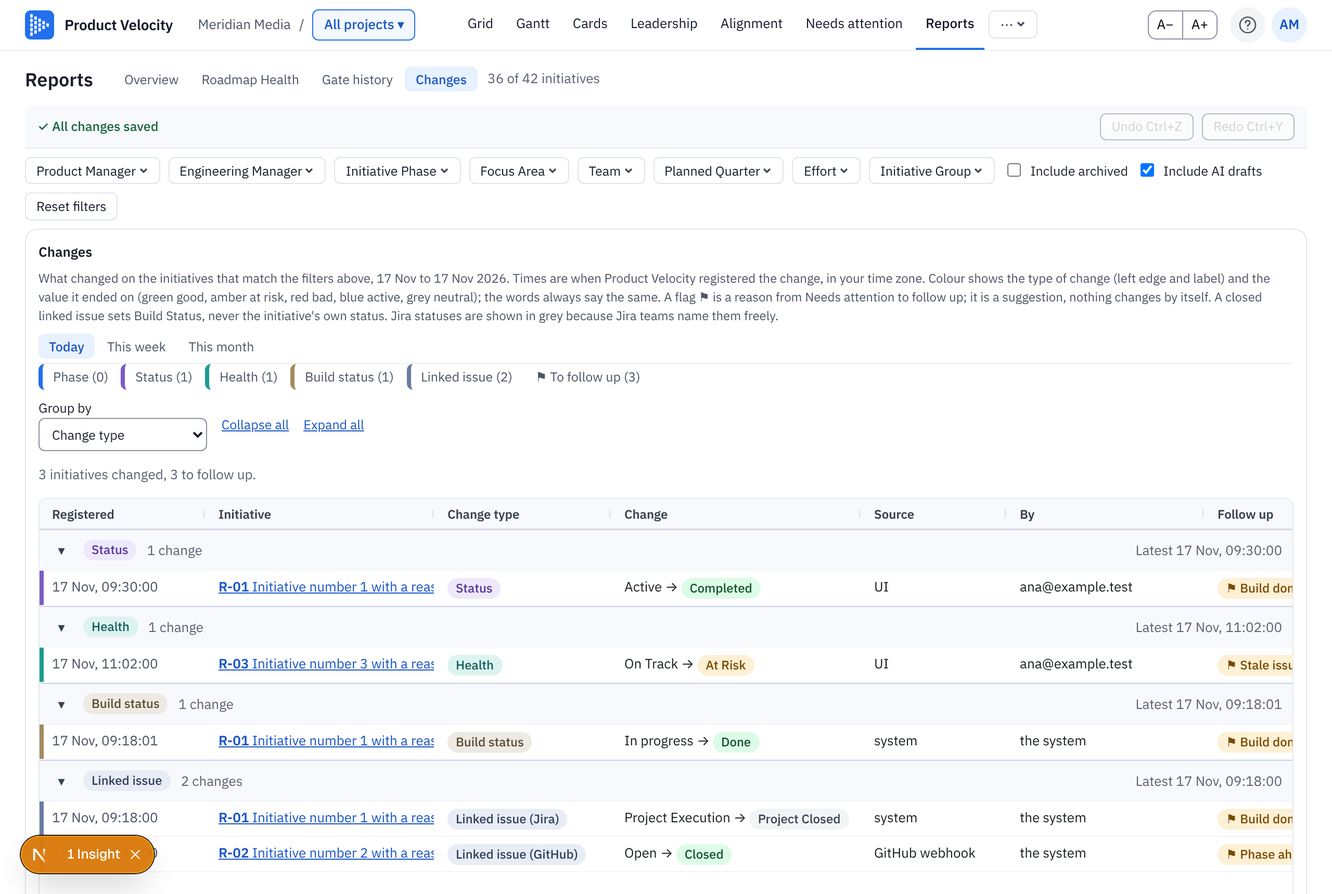
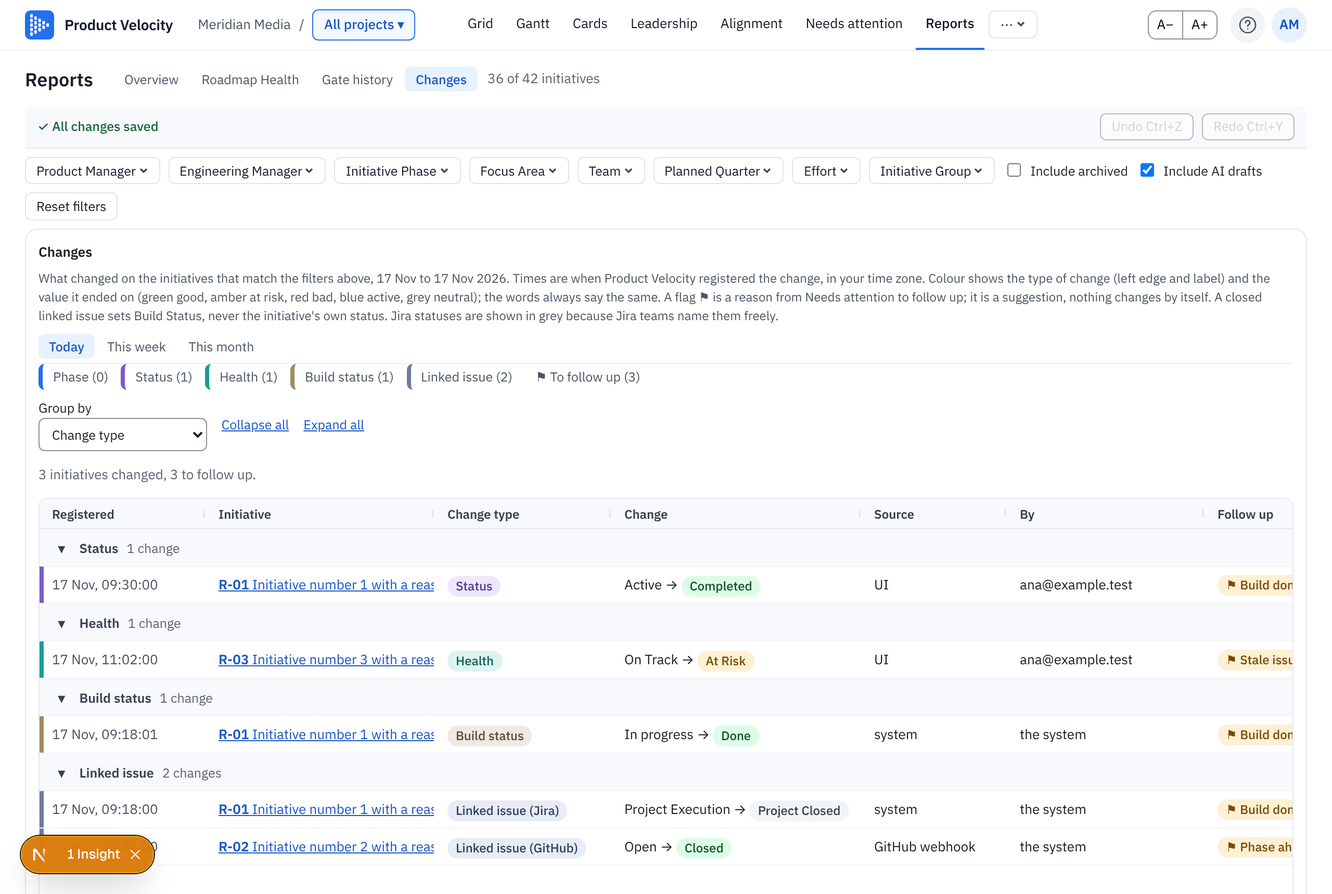
Changes grid built on the Roadmap grid's shared kit (#472)
Move the theme, modules, column defaults and group header row into
grid-kit and use them in both grids; the Changes group headers are the
Roadmap's GroupRow with a unit and badges.

Claude-Session: https://claude.ai/code/session_01TMdyHsoRZT8bQ47JBSqkYg

diff --git a/apps/web/src/features/reports/changes-report.tsx b/apps/web/src/features/reports/changes-report.tsx
@@ -2,46 +2,21 @@
 
 import { useCallback, useEffect, useMemo, useState } from "react";
 import { AgGridReact, type CustomCellRendererProps } from "ag-grid-react";
-import { CellStyleModule, ClientSideRowModelModule, ModuleRegistry, RowStyleModule, TooltipModule, themeQuartz, type ColDef } from "ag-grid-community";
+import type { ColDef } from "ag-grid-community";
 import {
   ATTENTION_KINDS, CHANGE_GROUP_BYS, CHANGE_PERIODS, CHANGE_TYPES, attentionList, changeCounts, changeGridRows, changePeriod, changeReport, changeTypeLabel, isChangeHeader,
-  type ChangeFlag, type ChangeGridRow, type ChangeGroupBy, type ChangeHeaderData, type ChangePeriod, type ChangeRowData, type ChangeType, type FeedRow, type ItemInfo,
+  type ChangeFlag, type ChangeGridRow, type ChangeGroupBy, type ChangePeriod, type ChangeRowData, type ChangeType, type FeedRow, type ItemInfo,
 } from "@pv/domain";
+import { DEFAULT_COL_DEF, GRID_THEME, GroupRowRenderer } from "../portfolio/grid-kit";
 import type { ReportEnv } from "./report-env";
-
-ModuleRegistry.registerModules([ClientSideRowModelModule, CellStyleModule, RowStyleModule, TooltipModule]);
-// Same look as the main grid. Row grouping is Enterprise only, so the group rows are our own (full-width rows), like in the Roadmap grid.
-const theme = themeQuartz.withParams({
-  fontFamily: "IBM Plex Sans, system-ui, sans-serif", fontSize: 13, headerFontSize: 12, headerFontWeight: 600, headerTextColor: "#374151", columnBorder: false, headerColumnBorder: false,
-  rowBorder: { style: "solid", width: 1, color: "#F3F4F7" }, rowHeight: 34, headerHeight: 28, accentColor: "#2270ed", borderColor: "#E6E9EF", headerBackgroundColor: "#F8F9FC", wrapperBorderRadius: 8, spacing: 6,
-});
 
 const plural = (n: number, one: string, many: string) => `${n.toLocaleString("en-GB")} ${n === 1 ? one : many}`;
 const when = (iso: string) => new Date(iso).toLocaleString("en-GB", { day: "numeric", month: "short", hour: "2-digit", minute: "2-digit", second: "2-digit" });
-type Ctx = { toggle: (id: string) => void; open: (itemId: string) => void; who: (id: string | null) => string };
+type Ctx = { toggleGroup: (key: string) => void; open: (itemId: string) => void; who: (id: string | null) => string };
 
 const FlagPills = ({ flags }: { flags: readonly ChangeFlag[] }) => (
   <>{flags.map((f) => <span key={f.kind} className="pill tone-risk chg-flag" title={f.text}>⚑ {f.label}</span>)}</>
 );
-
-/** A group row: a fold button, the label, the count, whether the initiative itself moved, and the flags to follow up. */
-function GroupHeader(p: CustomCellRendererProps<ChangeHeaderData>) {
-  const h = p.data!, ctx = p.context as Ctx;
-  return (
-    <div className="chg-head" role="row" data-by={h.by}>
-      <button type="button" className="chg-fold" aria-expanded={!h.collapsed} aria-label={`${h.collapsed ? "Expand" : "Collapse"} ${h.label}`} onClick={() => ctx.toggle(h.id)}>{h.collapsed ? "▸" : "▾"}</button>
-      {h.type ? <span className={`pill chg-type chg-type-${h.type}`}>{h.label}</span>
-        : h.itemId ? <button type="button" className="link-button chg-title" onClick={() => ctx.open(h.itemId!)}>{h.label}</button> : <strong>{h.label}</strong>}
-      <span className="muted">{plural(h.count, "change", "changes")}</span>
-      {h.itemId && (h.moved.length > 0
-        ? <span className="pill tone-info" title="The initiative itself changed">Initiative: {h.moved.map(changeTypeLabel).join(", ")}</span>
-        : <span className="pill tone-neutral" title="Only the linked issues changed">Initiative unchanged</span>)}
-      {h.trackerChanges > 0 && <span className="pill tone-neutral">{plural(h.trackerChanges, "linked-issue change", "linked-issue changes")}</span>}
-      <FlagPills flags={h.flags} />
-      <span className="muted chg-latest">Latest <time dateTime={h.latest}>{when(h.latest)}</time></span>
-    </div>
-  );
-}
 
 const TypeCell = (p: CustomCellRendererProps<ChangeRowData>) => <span className={`pill chg-type chg-type-${p.data!.type}`}>{changeTypeLabel(p.data!.type)}{p.data!.tracker ? ` (${p.data!.tracker})` : ""}</span>;
 const ChangeCell = (p: CustomCellRendererProps<ChangeRowData>) => {
@@ -59,10 +34,8 @@ const FlagCell = (p: CustomCellRendererProps<ChangeRowData>) => {
   return <><FlagPills flags={f.slice(0, 1)} />{f.length > 1 && <span className="pill tone-neutral" title={f.map((x) => `${x.label}: ${x.text}`).join("\n")}>+{f.length - 1} more</span>}</>;
 };
 
-const FullWidth = (p: CustomCellRendererProps<ChangeHeaderData>) => <GroupHeader {...p} />;
 const isFullWidthRow = (p: { rowNode: { data?: unknown } }) => isChangeHeader(p.rowNode.data);
 const getRowId = (p: { data: ChangeGridRow }) => p.data.id;
-const getRowHeight = (p: { data?: ChangeGridRow }) => (p.data && isChangeHeader(p.data) ? 40 : 34);
 const getRowClass = (p: { data?: ChangeGridRow }) => (p.data && !isChangeHeader(p.data) ? `chg-row chg-row-${p.data.type}` : undefined);
 
 /**
@@ -104,16 +77,16 @@ export function ChangesReport({ env, load, onOpen }: { env: ReportEnv; load?: (f
   const toggleType = (t: ChangeType) => setTypes((s) => (s.includes(t) ? s.filter((x) => x !== t) : [...s, t]));
   const toggle = useCallback((id: string) => setCollapsed((s) => { const n = new Set(s); if (!n.delete(id)) n.add(id); return n; }), []);
   const who = useCallback((id: string | null) => (id ? lookups.members.find((m) => m.user_id === id)?.email ?? "someone" : "the system"), [lookups.members]);
-  const context = useMemo<Ctx>(() => ({ toggle, open: onOpen, who }), [toggle, onOpen, who]);
+  const context = useMemo<Ctx>(() => ({ toggleGroup: toggle, open: onOpen, who }), [toggle, onOpen, who]);
 
   const columnDefs = useMemo<ColDef<ChangeRowData>[]>(() => [
     { colId: "at", headerName: "Registered", width: 160, valueGetter: (p) => p.data?.at, valueFormatter: (p) => (p.value ? when(String(p.value)) : ""), cellClass: "chg-time" },
-    { colId: "initiative", headerName: "Initiative", flex: 2, minWidth: 220, cellRenderer: InitiativeCell, hide: by === "initiative" }, // the group header says it
+    { colId: "initiative", headerName: "Initiative", flex: 2, minWidth: 220, cellRenderer: InitiativeCell },
     { colId: "type", headerName: "Change type", width: 170, cellRenderer: TypeCell },
     { colId: "change", headerName: "Change", flex: 2, minWidth: 240, cellRenderer: ChangeCell },
     { colId: "source", headerName: "Source", width: 140, valueGetter: (p) => p.data?.via },
     { colId: "by", headerName: "By", width: 190, valueGetter: (p) => (p.data ? who(p.data.actorId) : ""), tooltipValueGetter: (p) => (p.data ? who(p.data.actorId) : "") },
-    { colId: "flags", headerName: "Follow up", flex: 2, minWidth: 260, cellRenderer: FlagCell, cellClass: "chg-flags", hide: by === "initiative" }, // the group header says it
+    { colId: "flags", headerName: "Follow up", flex: 2, minWidth: 260, cellRenderer: FlagCell, cellClass: "chg-flags", hide: by === "initiative" }, // the group header of an initiative already shows its flags
   ], [who, by]);
 
   const { from, to } = changePeriod(period, new Date());
@@ -152,13 +125,14 @@ export function ChangesReport({ env, load, onOpen }: { env: ReportEnv; load?: (f
         : (
           <>
             <p className="muted" role="status">{plural(groups.length, "initiative", "initiatives")} changed{flaggedGroups > 0 ? `, ${flaggedGroups.toLocaleString("en-GB")} to follow up` : ""}{feed.length >= 5000 ? " (showing the latest 5,000 changes)" : ""}.</p>
-            <div className="chg-grid" data-testid="changes-grid">
+            <div className="grid-wrap chg-grid" data-testid="changes-grid">
               <AgGridReact<ChangeGridRow>
-                theme={theme} rowData={gridRows} columnDefs={columnDefs as ColDef<ChangeGridRow>[]} getRowId={getRowId} context={context}
-                isFullWidthRow={isFullWidthRow} fullWidthCellRenderer={FullWidth as never} getRowHeight={getRowHeight} getRowClass={getRowClass}
-                defaultColDef={{ sortable: false, resizable: true, suppressHeaderMenuButton: true }} tooltipShowDelay={500} suppressCellFocus={false}
+                theme={GRID_THEME} rowData={gridRows} columnDefs={columnDefs as ColDef<ChangeGridRow>[]} getRowId={getRowId} context={context}
+                isFullWidthRow={isFullWidthRow} fullWidthCellRenderer={GroupRowRenderer as never} getRowClass={getRowClass}
+                defaultColDef={{ ...DEFAULT_COL_DEF, suppressHeaderMenuButton: true }} tooltipShowDelay={500}
               />
             </div>
+            <p className="grid-foot">{gridRows.filter((r) => !isChangeHeader(r)).length.toLocaleString("en-GB")} changes · {by === "none" ? "Not grouped, newest first" : `Grouped by ${CHANGE_GROUP_BYS.find((g) => g.id === by)!.label.toLowerCase()}, newest first inside each group`} · The time is when Product Velocity registered the change</p>
           </>
         )}
     </section>

diff --git a/packages/domain/src/change-report.ts b/packages/domain/src/change-report.ts
@@ -1,3 +1,5 @@
+import type { GroupBadge, GroupRow } from "./views";
+
 /**
  * Changes report (issue #472): what changed on which initiative in a period, grouped by initiative, with the time Product Velocity registered it,
  * the source and the actor, and whether the initiative itself moved (phase, status, health) next to the status changes of its linked issues.
@@ -119,12 +121,10 @@ export type ChangeRowData = {
   kind: "change"; id: string; entryId: number; itemId: string; code: string; name: string; at: string; type: ChangeType;
   from: string | null; to: string | null; tone: ChangeTone; via: string; actorId: string | null; tracker: "GitHub" | "Jira" | null; flags: ChangeFlag[];
 };
-export type ChangeHeaderData = {
-  kind: "group"; id: string; label: string; count: number; collapsed: boolean; latest: string; by: ChangeGroupBy;
-  itemId: string | null; type: ChangeType | null; moved: ChangeType[]; trackerChanges: number; flags: ChangeFlag[];
-};
+/** A group header is the main grid's own `GroupRow` (one renderer, one look), with the unit "changes" and badges. */
+export type ChangeHeaderData = GroupRow;
 export type ChangeGridRow = ChangeRowData | ChangeHeaderData;
-export const isChangeHeader = (r: unknown): r is ChangeHeaderData => typeof r === "object" && r !== null && (r as { kind?: string }).kind === "group";
+export const isChangeHeader = (r: unknown): r is ChangeHeaderData => typeof r === "object" && r !== null && (r as { __group?: boolean }).__group === true;
 
 const dayKey = (iso: string) => { const d = new Date(iso); return `${d.getFullYear()}-${String(d.getMonth() + 1).padStart(2, "0")}-${String(d.getDate()).padStart(2, "0")}`; };
 const dayLabel = (iso: string) => new Date(iso).toLocaleDateString("en-GB", { weekday: "short", day: "numeric", month: "short", year: "numeric" });
@@ -145,15 +145,21 @@ export function changeGridRows(
   const newest = (a: ChangeRowData, b: ChangeRowData) => (a.at < b.at ? 1 : a.at > b.at ? -1 : b.entryId - a.entryId);
   if (by === "none") return rows.sort(newest);
 
-  const buckets = new Map<string, { label: string; rows: ChangeRowData[]; group?: ChangeGroup; type?: ChangeType }>();
-  for (const g of shown) buckets.set(`i:${g.itemId}`, { label: `${g.code} ${g.name}`, rows: [], group: g });
+  const header = (key: string, label: string, count: number, badges: GroupBadge[]): GroupRow =>
+    ({ __group: true, id: `group:${key}`, key, label, count, collapsed: collapsed.has(key), level: 0, healthSummary: "", unit: count === 1 ? "change" : "changes", badges });
   const out: ChangeGridRow[] = [];
   if (by === "initiative") {
-    for (const r of rows) buckets.get(`i:${r.itemId}`)!.rows.push(r);
-    for (const b of buckets.values()) { // `shown` is already newest first
-      const g = b.group!, id = `g:i:${g.itemId}`;
-      out.push({ kind: "group", id, label: b.label, count: b.rows.length, collapsed: collapsed.has(id), latest: g.latest, by, itemId: g.itemId, type: null, moved: g.moved, trackerChanges: g.trackerChanges, flags: [...(flags.get(g.itemId) ?? [])] });
-      if (!collapsed.has(id)) out.push(...b.rows.sort(newest));
+    const byItem = new Map<string, ChangeRowData[]>();
+    for (const r of rows) byItem.set(r.itemId, [...(byItem.get(r.itemId) ?? []), r]);
+    for (const g of shown) { // already newest first
+      const list = (byItem.get(g.itemId) ?? []).sort(newest), key = `initiative:${g.itemId}`;
+      const badges: GroupBadge[] = [
+        g.moved.length > 0 ? { text: `Initiative: ${g.moved.map(changeTypeLabel).join(", ")}`, tone: "info", title: "The initiative itself changed" } : { text: "Initiative unchanged", tone: "neutral", title: "Only the linked issues changed" },
+        ...(g.trackerChanges > 0 ? [{ text: `${g.trackerChanges} linked-issue ${g.trackerChanges === 1 ? "change" : "changes"}`, tone: "neutral" as const }] : []),
+        ...(flags.get(g.itemId) ?? []).map((f): GroupBadge => ({ text: `⚑ ${f.label}`, tone: "risk", title: f.text })),
+      ];
+      out.push(header(key, `${g.code} ${g.name}`, list.length, badges));
+      if (!collapsed.has(key)) out.push(...list);
     }
     return out;
   }
@@ -162,9 +168,9 @@ export function changeGridRows(
   for (const r of rows.sort(newest)) groupsOf.set(keyOf(r), [...(groupsOf.get(keyOf(r)) ?? []), r]);
   const keys = [...groupsOf.keys()].sort(by === "type" ? (a, b) => CHANGE_TYPES.findIndex((x) => x.id === a) - CHANGE_TYPES.findIndex((x) => x.id === b) : (a, b) => (a < b ? 1 : -1));
   for (const k of keys) {
-    const list = groupsOf.get(k)!, id = `g:${by}:${k}`;
-    out.push({ kind: "group", id, label: by === "type" ? changeTypeLabel(k as ChangeType) : dayLabel(list[0]!.at), count: list.length, collapsed: collapsed.has(id), latest: list[0]!.at, by, itemId: null, type: by === "type" ? (k as ChangeType) : null, moved: [], trackerChanges: 0, flags: [] });
-    if (!collapsed.has(id)) out.push(...list);
+    const list = groupsOf.get(k)!, key = `${by}:${k}`;
+    out.push(header(key, by === "type" ? changeTypeLabel(k as ChangeType) : dayLabel(list[0]!.at), list.length, []));
+    if (!collapsed.has(key)) out.push(...list);
   }
   return out;
 }

diff --git a/apps/web/src/features/portfolio/portfolio-grid.tsx b/apps/web/src/features/portfolio/portfolio-grid.tsx
@@ -4,7 +4,7 @@ import { useCallback, useEffect, useMemo, useRef, useState, type ReactNode } fro
 import { useRouter, useSearchParams } from "next/navigation";
 import {
   ClientSideRowModelApiModule, ClientSideRowModelModule, CellApiModule, CellStyleModule, ColumnApiModule, CustomEditorModule,
-  EventApiModule, ModuleRegistry, RowApiModule, RowSelectionModule, ScrollApiModule, TextEditorModule, themeQuartz, type CellClickedEvent, type CellDoubleClickedEvent, type CellFocusedEvent, type CellKeyDownEvent, type ColumnMovedEvent, type GridApi,
+  EventApiModule, ModuleRegistry, RowApiModule, RowSelectionModule, ScrollApiModule, TextEditorModule, type CellClickedEvent, type CellDoubleClickedEvent, type CellFocusedEvent, type CellKeyDownEvent, type ColumnMovedEvent, type GridApi,
 } from "ag-grid-community";
 import { AgGridReact, type CustomCellRendererProps } from "ag-grid-react";
 import {
@@ -39,6 +39,7 @@ import { ImportDialog } from "./import-dialog";
 import { QuickAddBar } from "./quick-add-bar";
 import { OverflowBar, type OverflowItem } from "@/components/overflow-bar";
 import type { PortfolioController } from "./controller";
+import { DEFAULT_COL_DEF, GRID_THEME, GroupRowRenderer, isGroup } from "./grid-kit";
 import { StatusAlerts, StatusInline, useStatus } from "./status-strip";
 import type { GridItem, Lookups } from "./types";
 
@@ -47,24 +48,6 @@ ModuleRegistry.registerModules([
   ColumnApiModule, CellApiModule, RowApiModule, EventApiModule, ScrollApiModule, RowSelectionModule,
 ]);
 
-const theme = themeQuartz.withParams({
-  fontFamily: "IBM Plex Sans, system-ui, sans-serif",
-  fontSize: 13,
-  headerFontSize: 12,
-  headerFontWeight: 600,
-  headerTextColor: "#374151",
-  columnBorder: false,
-  headerColumnBorder: false,
-  rowBorder: { style: "solid", width: 1, color: "#F3F4F7" },
-  selectedRowBackgroundColor: "#f3f8fe",
-  rowHeight: 36,
-  headerHeight: 28,
-  accentColor: "#2270ed",
-  borderColor: "#E6E9EF",
-  headerBackgroundColor: "#F8F9FC",
-  wrapperBorderRadius: 8,
-  spacing: 6,
-});
 
 type GridProps = {
   controller: PortfolioController;
@@ -83,24 +66,6 @@ type GridProps = {
   gates?: GateSource;
 };
 
-const isGroup = (r: unknown): r is GroupRow => !!r && typeof r === "object" && (r as { __group?: boolean }).__group === true;
-
-/** Full-width header row of a group: a toggle, the group's name and how many items it holds. A "Then by" header sits indented inside its group. */
-function GroupRowRenderer(p: CustomCellRendererProps<GroupRow>) {
-  const g = p.data;
-  if (!g) return null;
-  const toggle = (p.context as { toggleGroup: (key: string) => void }).toggleGroup;
-  return (
-    <div className="group-row" data-level={g.level ?? 0}>
-      <button type="button" className="group-toggle" aria-expanded={!g.collapsed} aria-label={`${g.collapsed ? "Expand" : "Collapse"} group ${g.label}`} onClick={() => toggle(g.key)}>
-        {g.collapsed ? "▸" : "▾"}
-      </button>
-      <span>{g.label}</span>
-      <span className="group-count">{g.count} {g.count === 1 ? "item" : "items"}</span>
-      {g.healthSummary && <span className="group-health">{g.healthSummary}</span>}
-    </div>
-  );
-}
 
 /**
  * A tracker issue under its initiative (Show issues), lined up with the grid's own columns so it reads as a child of the initiative above:
@@ -144,7 +109,6 @@ const getRowId = (p: { data: { id: string } }) => p.data.id;
 /** Group headers and tracker issue rows are not initiatives: they span the grid, cannot be selected and are skipped by the keyboard shortcuts. */
 const isExtraRow = (r: unknown) => isGroup(r) || isIssueRow(r);
 const isFullWidthRow = (p: { rowNode: { data?: unknown } }) => isExtraRow(p.rowNode.data);
-const DEFAULT_COL_DEF = { sortable: false, resizable: true, cellDataType: false } as const;
 const ROW_SELECTION = { mode: "multiRow", checkboxes: true, headerCheckbox: true, enableClickSelection: false, isRowSelectable: (n: { data?: unknown }) => !isExtraRow(n.data) } as const;
 const SELECTION_COLUMN = { pinned: "left", width: 46, suppressHeaderMenuButton: true } as const;
 
@@ -791,7 +755,7 @@ export function PortfolioGrid({ controller, lookups, initialBase = PRIORITISATIO
       <div className={peekId ? "grid-split grid-split-open" : "grid-split"}>
       <div ref={wrapRef} className="grid-wrap" data-testid="grid" data-issues={showIssues ? "on" : undefined} style={gridHeight ? { height: gridHeight } : undefined}>
         <AgGridReact<GridItem>
-          theme={theme}
+          theme={GRID_THEME}
           rowData={displayRows as unknown as GridItem[]}
           columnDefs={columnDefs}
           getRowId={getRowId}

diff --git a/packages/domain/src/change-report.test.ts b/packages/domain/src/change-report.test.ts
@@ -78,7 +78,7 @@ describe("changePeriod", () => {
   });
 });
 
-import { changeGridRows, changeTone, isChangeHeader, type ChangeFlag } from "./change-report";
+import { changeGridRows, changeTone, isChangeHeader, type ChangeFlag, type ChangeRowData } from "./change-report";
 
 describe("changeTone", () => {
   it("colours the value a change ended on, and never guesses a Jira status", () => {
@@ -106,16 +106,17 @@ describe("changeGridRows", () => {
 
   it("puts a header before each initiative with the count, the flags and whether it moved", () => {
     const rows = changeGridRows(groups, "initiative", new Set(), flags);
-    expect(rows.map((r) => r.kind)).toEqual(["group", "change", "change", "group", "change"]);
+    expect(rows.map((r) => (isChangeHeader(r) ? "group" : r.kind))).toEqual(["group", "change", "change", "group", "change"]);
     const h = rows[0]!;
-    expect(isChangeHeader(h) && h).toMatchObject({ itemId: "a", count: 2, moved: ["initiative-status"], trackerChanges: 1, flags: [flag] });
+    expect(isChangeHeader(h) && h).toMatchObject({ __group: true, key: "initiative:a", label: "R-27 Bidder adapter", count: 2, unit: "changes", level: 0 });
+    expect((h as { badges: { text: string; tone: string }[] }).badges).toEqual([expect.objectContaining({ text: "Initiative: Status", tone: "info" }), expect.objectContaining({ text: "1 linked-issue change" }), expect.objectContaining({ text: "⚑ Build done", tone: "risk", title: flag.text })]);
     expect(rows[1]).toMatchObject({ code: "R-27", tone: "good", flags: [flag] });
   });
 
   it("a collapsed group shows only its header", () => {
-    const rows = changeGridRows(groups, "initiative", new Set(["g:i:a"]), flags);
-    expect(rows.map((r) => r.kind)).toEqual(["group", "group", "change"]);
-    expect((rows[0] as { collapsed: boolean }).collapsed).toBe(true);
+    const rows = changeGridRows(groups, "initiative", new Set(["initiative:a"]), flags);
+    expect(rows.map((r) => (isChangeHeader(r) ? "group" : r.kind))).toEqual(["group", "group", "change"]);
+    expect((rows[0] as { collapsed: boolean }).collapsed).toBe(true); // the main grid's collapse key, so one toggle works for both grids
   });
 
   it("groups by change type in the order of the list, by day newest first, or not at all (newest first)", () => {
@@ -123,7 +124,7 @@ describe("changeGridRows", () => {
     expect(byType.filter(isChangeHeader).map((h) => h.label)).toEqual(["Status", "Health", "Linked issue"]);
     const byDay = changeGridRows(groups, "day", new Set());
     expect(byDay.filter(isChangeHeader)).toHaveLength(2);
-    expect(byDay.filter((r) => !isChangeHeader(r)).map((r) => r.at)).toEqual(["2026-11-17T12:30:00Z", "2026-11-17T12:18:00Z", "2026-11-16T12:00:00Z"]);
+    expect(byDay.filter((r): r is ChangeRowData => !isChangeHeader(r)).map((r) => r.at)).toEqual(["2026-11-17T12:30:00Z", "2026-11-17T12:18:00Z", "2026-11-16T12:00:00Z"]);
     expect(changeGridRows(groups, "none", new Set()).some(isChangeHeader)).toBe(false);
   });
 

diff --git a/apps/web/src/features/portfolio/grid-kit.tsx b/apps/web/src/features/portfolio/grid-kit.tsx
@@ -1,0 +1,57 @@
+"use client";
+
+import { CellStyleModule, ClientSideRowModelModule, ModuleRegistry, RowStyleModule, TooltipModule, themeQuartz } from "ag-grid-community";
+import type { CustomCellRendererProps } from "ag-grid-react";
+import type { GroupRow } from "@pv/domain";
+
+/**
+ * What every grid in Product Velocity shares with the Roadmap grid (issue #472, Ashu 2026-11-17: "use the main grid we already have as the basis"):
+ * the AG Grid modules, the compact look (theme), the default column behaviour, and the group header row. The Roadmap grid and the Changes report both use these,
+ * so a change to the look or to the header of a group is made once. Row grouping itself is Enterprise only (spike S1): groups are header rows we build
+ * (`buildGroupedRows` in the domain package) and this renderer draws.
+ */
+ModuleRegistry.registerModules([ClientSideRowModelModule, CellStyleModule, RowStyleModule, TooltipModule]);
+
+export const GRID_THEME = themeQuartz.withParams({
+  fontFamily: "IBM Plex Sans, system-ui, sans-serif",
+  fontSize: 13,
+  headerFontSize: 12,
+  headerFontWeight: 600,
+  headerTextColor: "#374151",
+  columnBorder: false,
+  headerColumnBorder: false,
+  rowBorder: { style: "solid", width: 1, color: "#F3F4F7" },
+  selectedRowBackgroundColor: "#f3f8fe",
+  rowHeight: 36,
+  headerHeight: 28,
+  accentColor: "#2270ed",
+  borderColor: "#E6E9EF",
+  headerBackgroundColor: "#F8F9FC",
+  wrapperBorderRadius: 8,
+  spacing: 6,
+});
+
+export const DEFAULT_COL_DEF = { sortable: false, resizable: true, cellDataType: false } as const;
+
+export const isGroup = (r: unknown): r is GroupRow => !!r && typeof r === "object" && (r as { __group?: boolean }).__group === true;
+
+/**
+ * Full-width header row of a group: a toggle, the group's name and how many rows it holds, then the health in words (Roadmap) or badges with their words
+ * (other screens). A "Then by" header sits indented inside its group. The grid's `context` must offer `toggleGroup(key)`.
+ */
+export function GroupRowRenderer(p: CustomCellRendererProps<GroupRow>) {
+  const g = p.data;
+  if (!g) return null;
+  const toggle = (p.context as { toggleGroup: (key: string) => void }).toggleGroup;
+  return (
+    <div className="group-row" data-level={g.level ?? 0}>
+      <button type="button" className="group-toggle" aria-expanded={!g.collapsed} aria-label={`${g.collapsed ? "Expand" : "Collapse"} group ${g.label}`} onClick={() => toggle(g.key)}>
+        {g.collapsed ? "▸" : "▾"}
+      </button>
+      <span>{g.label}</span>
+      <span className="group-count">{g.count} {g.unit ?? (g.count === 1 ? "item" : "items")}</span>
+      {g.healthSummary && <span className="group-health">{g.healthSummary}</span>}
+      {g.badges?.map((b) => <span key={b.text} className={`pill tone-${b.tone}`} title={b.title}>{b.text}</span>)}
+    </div>
+  );
+}

diff --git a/packages/domain/src/views.ts b/packages/domain/src/views.ts
@@ -146,7 +146,9 @@ export function filterSummary(fl: Filter, labels: { person: (id: string) => stri
 }
 
 // ----------------------------------------------------------------- grouping
-export type GroupRow = { __group: true; id: string; key: string; label: string; count: number; collapsed: boolean; /** 0 for a "Group by" header, 1 for a "Then by" header inside it. */ level: 0 | 1; /** "3 On Track · 1 At Risk": the health of the rows of the group, in words (empty when none has a health). */ healthSummary: string };
+export type GroupRow = { __group: true; id: string; key: string; label: string; count: number; collapsed: boolean; /** 0 for a "Group by" header, 1 for a "Then by" header inside it. */ level: 0 | 1; /** "3 On Track · 1 At Risk": the health of the rows of the group, in words (empty when none has a health). */ healthSummary: string; /** What the rows are called in the count ("changes"); default "items". Used by other screens built on the grid (the Changes report). */ unit?: string; /** Small coloured labels after the count, each with its words (never colour alone). Default none. */ badges?: GroupBadge[] };
+/** A label on a group header: its words, how it reads in colour (the shared tone-* pills) and an optional longer explanation for the tooltip. */
+export type GroupBadge = { text: string; tone: "good" | "risk" | "bad" | "info" | "neutral"; title?: string };
 
 /** The health of some rows in words, in the order of the dictionary's list: "3 On Track · 1 At Risk". Rows without a health are left out. */
 export function healthBreakdown(rows: readonly object[]): string {

diff --git a/apps/web/src/styles/globals.css b/apps/web/src/styles/globals.css
@@ -1315,10 +1315,8 @@ a.btn.btn-primary { color: #fff; }
 /* Changes report grid (issue #472): colour by change type; the value a change ended on uses the shared tone-* pills. Every colour comes with a word. */
 .chg-bar { display: flex; align-items: center; gap: 14px; margin: 8px 0; font-size: 12.5px; }
 .chg-grid { height: min(70vh, 640px); min-height: 360px; }
-.chg-head { display: flex; align-items: center; gap: 10px; height: 100%; padding: 0 10px; background: var(--header-bg); border-top: 1px solid #cfd5e3; font-size: 13px; }
-.chg-fold { width: 22px; height: 22px; border: 0; background: transparent; cursor: pointer; font-size: 13px; color: #374151; }
-.chg-title { font-weight: 600; }
-.chg-latest { margin-left: auto; }
+.group-row .pill { font-weight: 500; }
+.group-row .pill[title] { cursor: help; }
 .chg-flags { display: flex; align-items: center; gap: 6px; }
 .chg-flag { cursor: help; }
 .chg-time { font-variant-numeric: tabular-nums; color: #4b5262; }

diff --git a/docs/28-DECISION-GATES.md b/docs/28-DECISION-GATES.md
@@ -109,7 +109,7 @@ Reports has a third report, **Gate history**, that follows the Reports filters. 
 
 ## 7c. Changes report (issue #472)
 
-Reports has a fourth report, **Changes** (`?report=changes`), that follows the Reports filters: which initiatives changed Today, This week or This month (the viewer's time zone), grouped by initiative, newest first, filterable by change type. Types: Phase, Status (Initiative Status), Health, Build status and the status of the linked GitHub or Jira issue. Each row shows the time Product Velocity registered it (`audit_log.at`, not the tracker's own time), old to new value, the source (UI, Claude MCP, GitHub webhook, system) and the **actor's name** (email in the workspace directory; "the system" for webhooks and checks). An initiative header says whether the initiative itself moved (phase, status, health) or only its linked issues did, so a closed ticket is never mistaken for a finished initiative (rule 6). **The Changes report is an AG Grid** (follow-up of #472, Ashu 2026-11-17): one row per change with Registered, Initiative, Change type, Change (old to new), Source, By and Follow up. Grouping is our own header rows (row grouping is Enterprise only, spike S1), as in the Roadmap grid: by Initiative (default; the header shows the count, whether the initiative itself moved, the flags and the latest time), Change type, Day or none, with collapse and expand all. Colour follows the type of change (left edge and label: phase blue, status violet, health teal, build status sand, linked issue slate) and the value the change ended on (green good, amber at risk, red bad, blue active, grey neutral); a Jira status is always grey because Jira teams name statuses freely ("Project Accepted" counts as To Do). Every colour comes with its word. **Flags to follow up** are the Needs attention reasons (section 7a) worked out from the grid's own rows, shown as ⚑ pills on the header and the first one on each row; "⚑ To follow up" keeps only flagged initiatives. The gate-based reasons (waiting for a decision, open conditions) stay on the Needs attention page. The data is the database function `change_feed(tenant, from, to)` (members only, no new table; commercial fields are never returned); the grouping is `changeReport` in `packages/domain/src/change-report.ts`. Names are shown on a row only: nothing is counted, ranked or charted per person (rule 8). Limits: the tracker's own timestamp of a change is not stored per change, so it is not shown; the latest 5,000 changes of a period are read.
+Reports has a fourth report, **Changes** (`?report=changes`), that follows the Reports filters: which initiatives changed Today, This week or This month (the viewer's time zone), grouped by initiative, newest first, filterable by change type. Types: Phase, Status (Initiative Status), Health, Build status and the status of the linked GitHub or Jira issue. Each row shows the time Product Velocity registered it (`audit_log.at`, not the tracker's own time), old to new value, the source (UI, Claude MCP, GitHub webhook, system) and the **actor's name** (email in the workspace directory; "the system" for webhooks and checks). An initiative header says whether the initiative itself moved (phase, status, health) or only its linked issues did, so a closed ticket is never mistaken for a finished initiative (rule 6). **The Changes report is an AG Grid** (follow-up of #472, Ashu 2026-11-17): one row per change with Registered, Initiative, Change type, Change (old to new), Source, By and Follow up. The grid is built on the Roadmap grid's own parts, shared in `apps/web/src/features/portfolio/grid-kit.tsx` (AG Grid modules, the compact theme, the column defaults and the group header row), so a change to the look or to a group header is made once. Grouping is our own header rows (row grouping is Enterprise only, spike S1), the same `GroupRow` the Roadmap grid builds: by Initiative (default; the header shows the count of changes and badges with their words: whether the initiative itself moved, the number of linked-issue changes, and the flags), Change type, Day or none, with collapse and expand all. Colour follows the type of change (left edge and label: phase blue, status violet, health teal, build status sand, linked issue slate) and the value the change ended on (green good, amber at risk, red bad, blue active, grey neutral); a Jira status is always grey because Jira teams name statuses freely ("Project Accepted" counts as To Do). Every colour comes with its word. **Flags to follow up** are the Needs attention reasons (section 7a) worked out from the grid's own rows, shown as ⚑ pills on the header and the first one on each row; "⚑ To follow up" keeps only flagged initiatives. The gate-based reasons (waiting for a decision, open conditions) stay on the Needs attention page. The data is the database function `change_feed(tenant, from, to)` (members only, no new table; commercial fields are never returned); the grouping is `changeReport` in `packages/domain/src/change-report.ts`. Names are shown on a row only: nothing is counted, ranked or charted per person (rule 8). Limits: the tracker's own timestamp of a change is not stored per change, so it is not shown; the latest 5,000 changes of a period are read.
 
 ## 8. When items sync to GitHub or Jira
 

diff --git a/docs/decisions/2026-11-17-changes-report.md b/docs/decisions/2026-11-17-changes-report.md
@@ -5,4 +5,4 @@ request: 472
 ---
 **The Changes report is a fourth report on the Reports tab, over the audit log; PM flags are new reasons in Needs attention, not a second system.** Ashu asked for it (and for actor names on each row) on 2026-11-17. Choices made without asking, change them if you disagree: the source is `audit_log` through the member-readable function `change_feed` (no new table, the audit table stays admin-only); the "exact time" is when Product Velocity registered the change, and the tracker's own time per change is not shown because only the latest one is stored; actors are shown as the workspace email (the only name the directory holds); no counts or charts per person (rule 8); commercial fields and gate decisions are left out; flags are suggestions only. The R-27 case (every linked issue or epic closed while the phase is still Build) widens "Build done" so it also fires when Build Status has not caught up. New reasons: Completed with open work, Phase ahead of the build, Stale issues, No health set. GitHub and Jira are covered together (tracker parity). Documented in `docs/28-DECISION-GATES.md` sections 7a and 7c and the Help page.
 
-**Update (Ashu, 2026-11-17): the Changes report is an AG Grid with grouping, colour by update type and flags to follow up.** Our own group header rows (Initiative, Change type, Day, none), as in the Roadmap grid, because row grouping is Enterprise only. Colour by type of change plus a tone for the value it ended on, always with its word (WCAG AA, rule UX bar). Flags reuse `attentionList`, so there is one set of rules; gate-based reasons stay on Needs attention. Jira statuses stay grey. Choices made without asking: when grouped by Initiative the Initiative and Follow up columns are hidden (the header carries them); a row shows its first flag and "+N more". Docs: `docs/28-DECISION-GATES.md` section 7c.
+**Update (Ashu, 2026-11-17): the Changes report is an AG Grid with grouping, colour by update type and flags to follow up.** **Built on the Roadmap grid (Ashu, 2026-11-17: "use the main grid we already have in pv as the grid basis"):** the theme, modules, column defaults and group header row were moved out of `portfolio-grid.tsx` into `features/portfolio/grid-kit.tsx` and both grids use them; the group header is the Roadmap's `GroupRow` with two optional additions (`unit`, `badges`), so nothing changes for the Roadmap. Groups (Initiative, Change type, Day, none) are header rows we build, because row grouping is Enterprise only. Colour by type of change plus a tone for the value it ended on, always with its word (WCAG AA, rule UX bar). Flags reuse `attentionList`, so there is one set of rules; gate-based reasons stay on Needs attention. Jira statuses stay grey. Choices made without asking: when grouped by Initiative the Follow up column is hidden (the header carries the flags); a row shows its first flag and "+N more". Docs: `docs/28-DECISION-GATES.md` section 7c.

diff --git a/docs/releases/unreleased/20261117-changes-grid.md b/docs/releases/unreleased/20261117-changes-grid.md
@@ -1,4 +1,4 @@
 ---
 bump: minor
 ---
-**The Changes report is now a grid with grouping, colour and follow-up flags.** Group by initiative, change type or day (collapse and expand all), see the type of change in colour and the value it ended on in green, amber, red, blue or grey (always with the word), and keep only the initiatives with a flag to follow up (the Needs attention reasons, such as every linked issue closed while the phase is still Build). No migration.
+**The Changes report is now a grid with grouping, colour and follow-up flags.** Group by initiative, change type or day (collapse and expand all), see the type of change in colour and the value it ended on in green, amber, red, blue or grey (always with the word), and keep only the initiatives with a flag to follow up (the Needs attention reasons, such as every linked issue closed while the phase is still Build). It uses the same grid look and group rows as the Roadmap. No migration.
